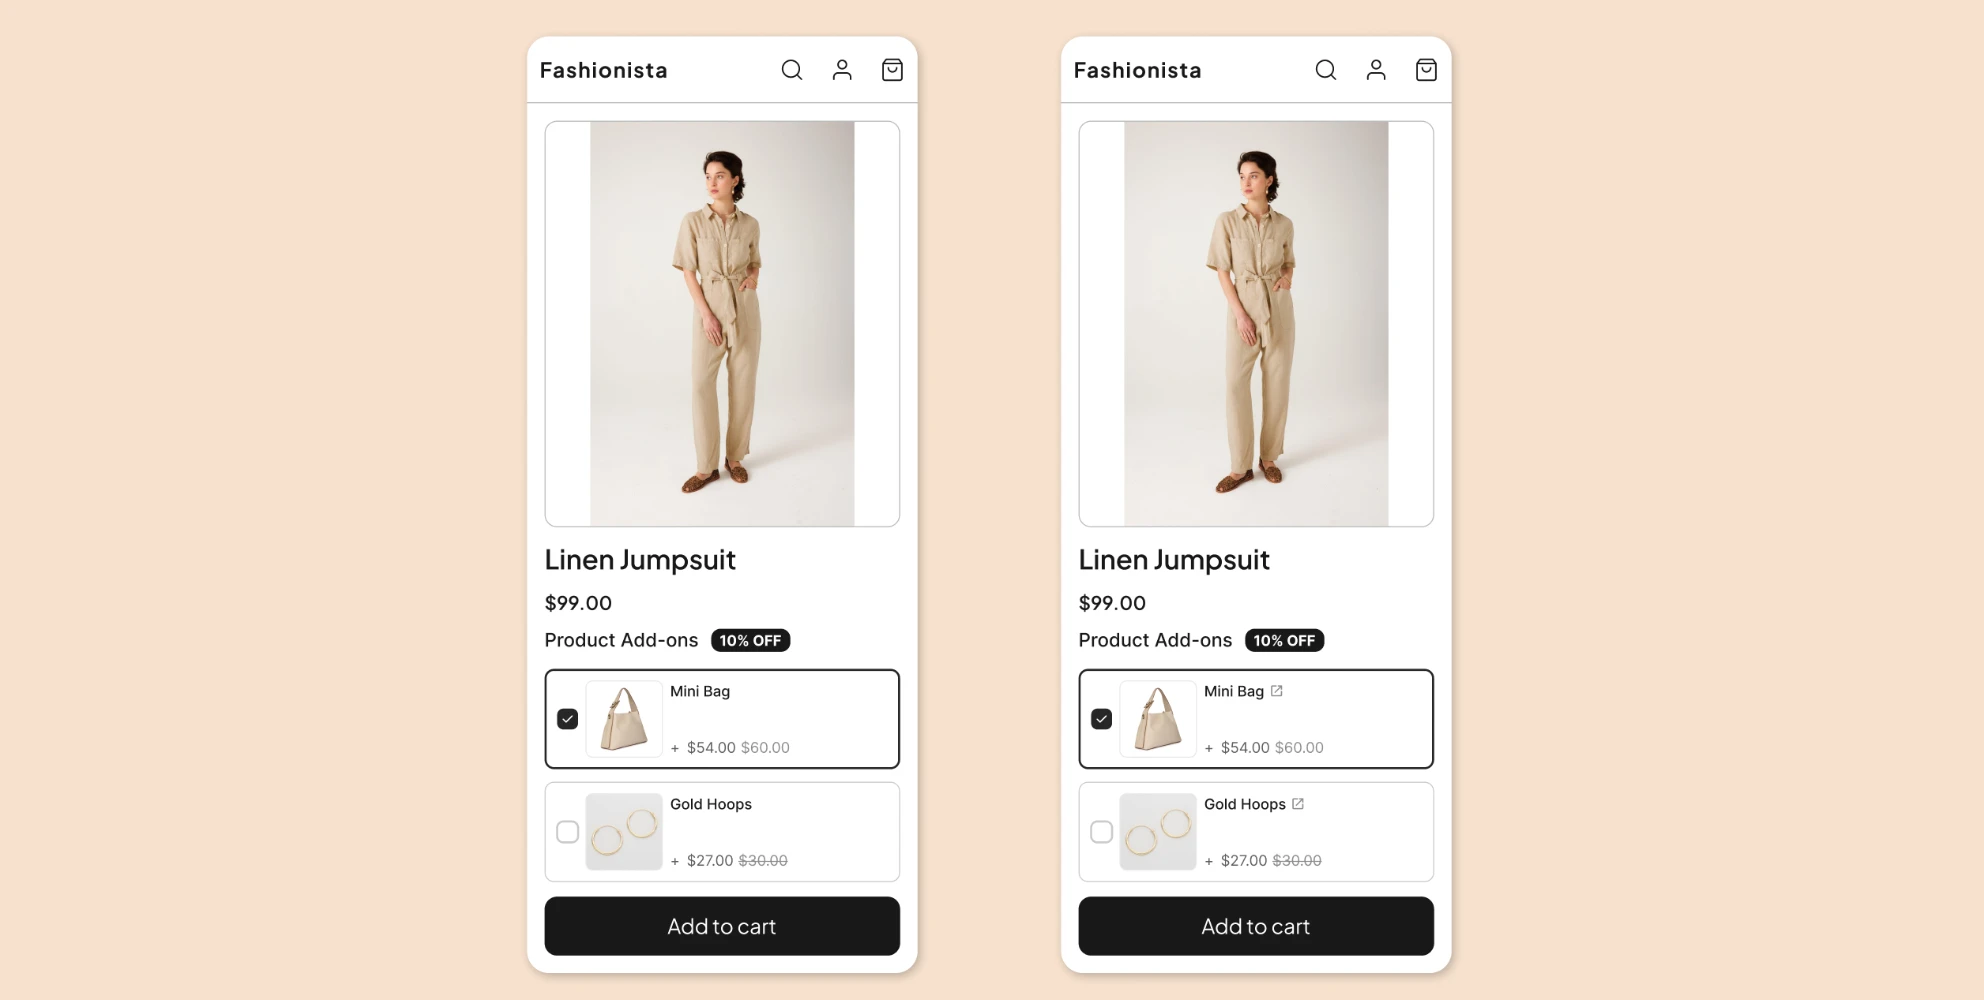
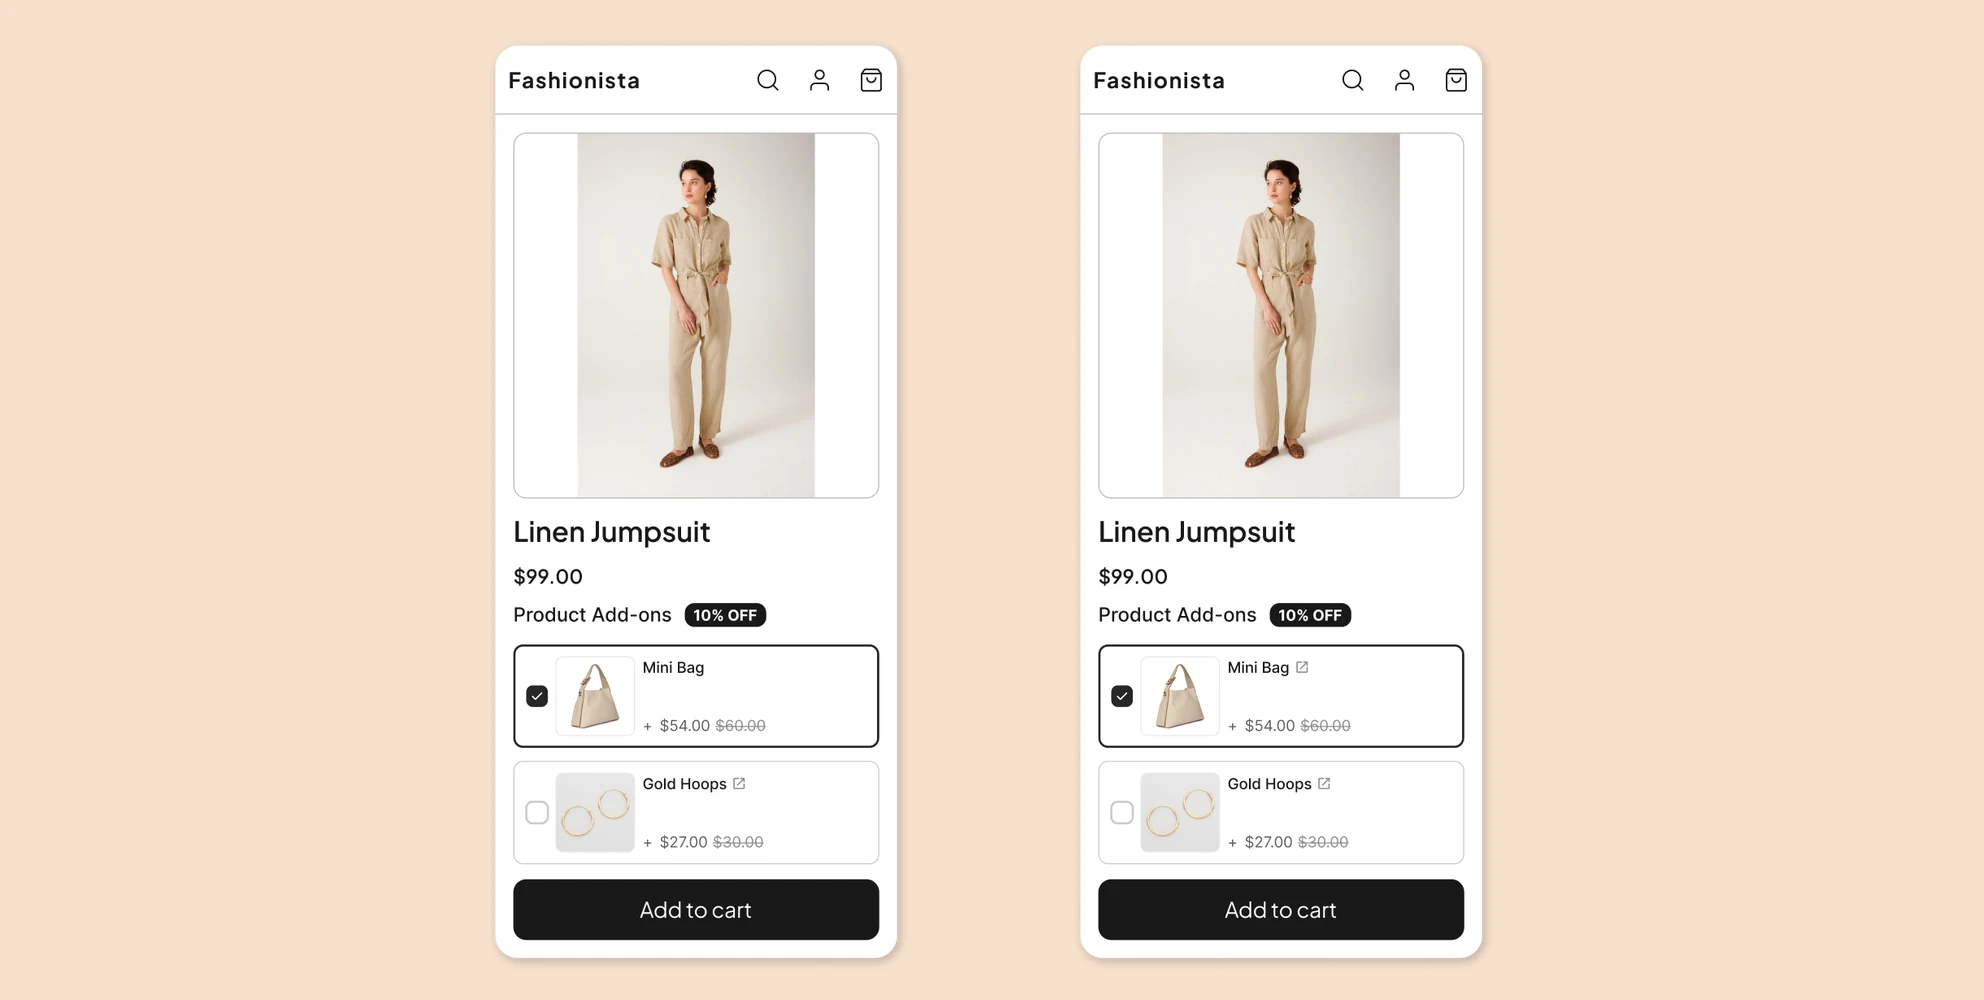
Replace title-link before/after screenshots and recalibrate arrow
Rebuilds the composite from the new before/after mobile screenshots
(kept at the original canvas size and margins) and re-measures the
arrow overlay's start/end points against the new title/link icon
positions.

Changed region(s): [[0.5312, 0.031, 0.75, 0.992], [0.25, 0.031, 0.4688, 0.992]]

diff --git a/a-new-feature-an-old-assumption.html b/a-new-feature-an-old-assumption.html
@@ -296,8 +296,8 @@
               <path d="M2,1.5 L9.5,6 L2,10.5" fill="none" stroke="var(--accent)" stroke-width="1.5" stroke-linecap="round" stroke-linejoin="round"></path>
             </marker>
           </defs>
-          <circle class="arrow-dot" cx="770" cy="695" r="6"></circle>
-          <path class="arrow-path" d="M770,695 C855,620 945,620 1030,690 C1085,735 1170,735 1233,703" marker-end="url(#arrow-head-2)"></path>
+          <circle class="arrow-dot" cx="730" cy="672" r="6"></circle>
+          <path class="arrow-path" d="M730,672 C830,590 950,590 1050,660 C1120,710 1220,710 1298,659" marker-end="url(#arrow-head-2)"></path>
         </svg>
       </div>
 
